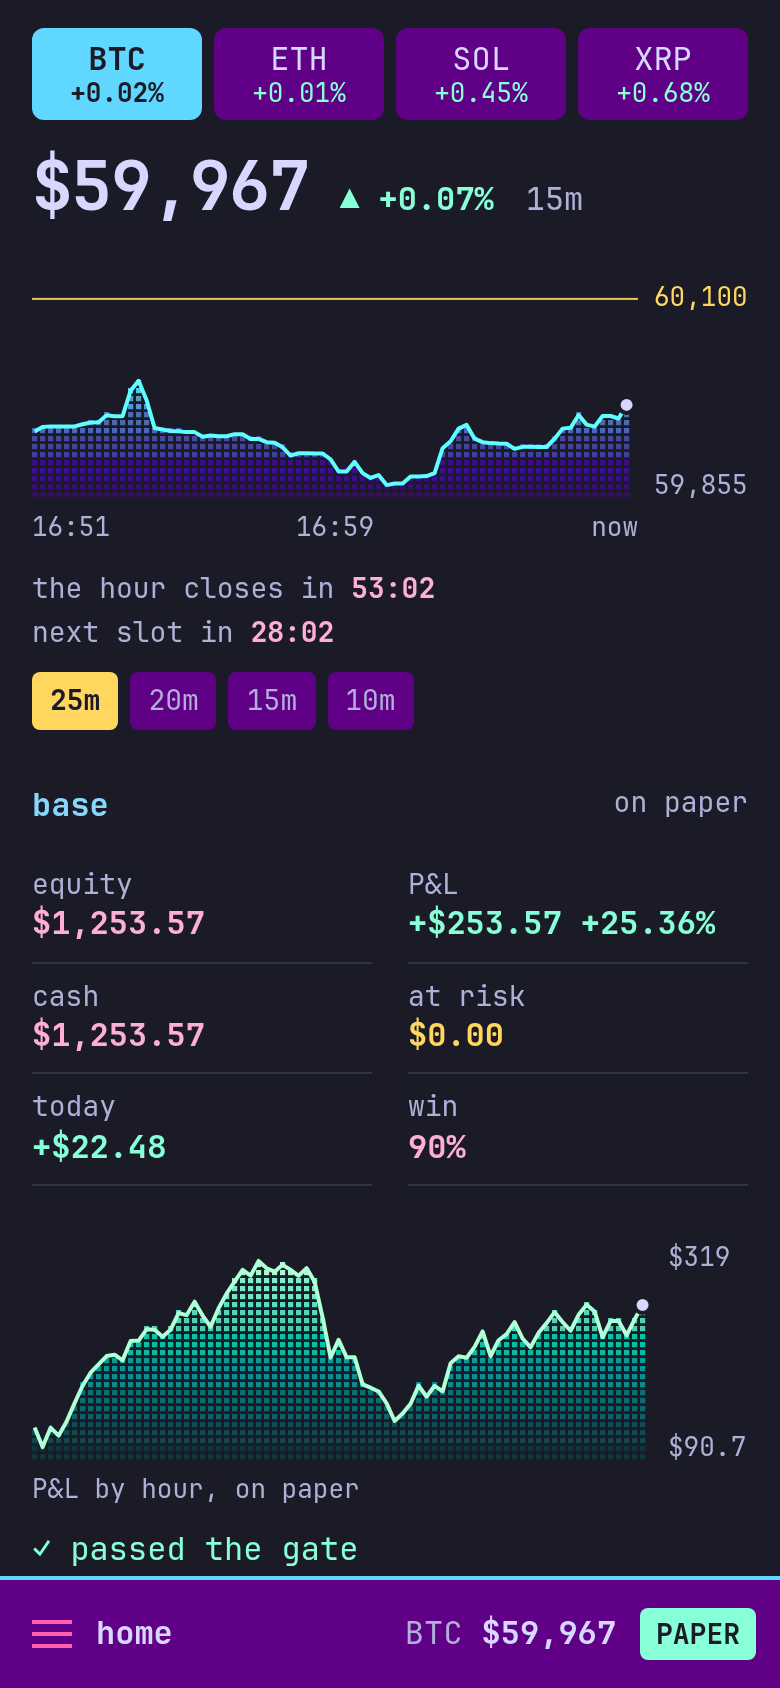
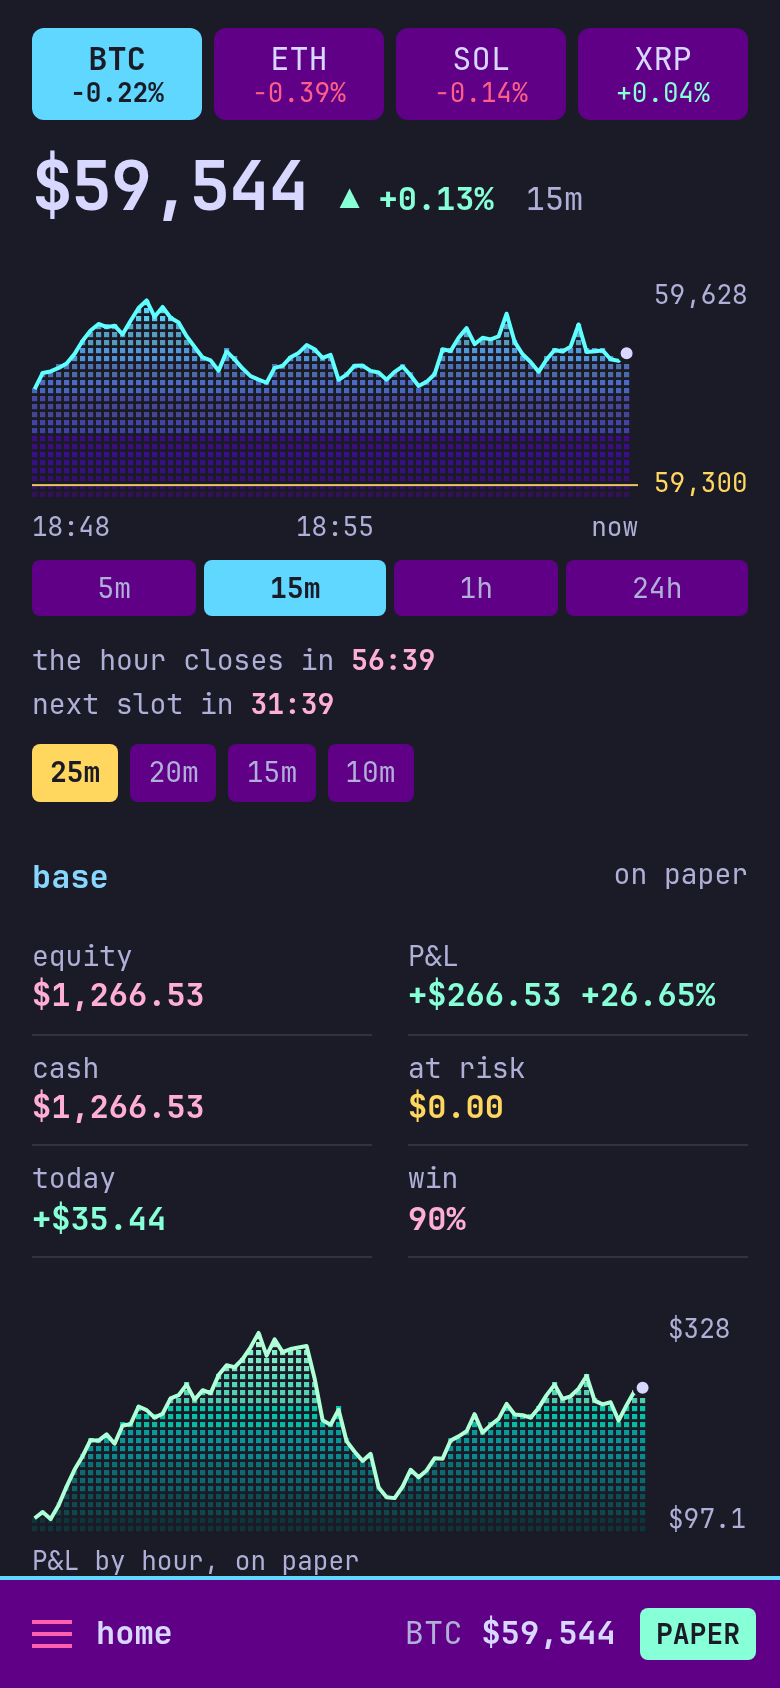
Phone pages: no spot page, its spans on home, and swipes go around

diff --git a/tern/phone.html b/tern/phone.html
@@ -44,6 +44,10 @@
   .pick button span { display: block; font-size: 13px; line-height: 1.1; }
   .pick.coins button { padding: 6px 12px; line-height: 1.25; }
   .pick button.on span { color: inherit; }
+  .pick.mini { gap: 4px; margin: 8px 0 0; overflow: visible; }
+  .pick.mini button { position: relative; min-height: 28px; padding: 0 8px; font-size: 14px; line-height: 1; border-radius: 4px; color: var(--grey); }
+  .pick.mini button.on { color: var(--bg); }
+  .pick.mini button::after { content: ""; position: absolute; inset: -8px -2px; }        /* small to see, not to hit */
 
   .price { font-size: 34px; line-height: 1.1; font-weight: 700; letter-spacing: -.02em; }
   .line { display: flex; flex-wrap: wrap; gap: 2px 16px; align-items: baseline; }
@@ -287,9 +291,9 @@
     return el("div", {}, el("div.line.small", { style: { "margin-top": "12px" } }, el("span.quiet", {}, "the hour closes in ", el("b.val", {}, h.left)), next && el("span.quiet", {}, "next slot in ", el("b.val", {}, next.in))),
       h.slots.length > 0 && el("div.slots", { "aria-label": "slots" }, h.slots.map(s => el("span", { cls: s.state }, (s.state === "done" ? "✓ " : "") + s.at))));
   }
-  function spotChart(d, c, size) {
+  function spotChart(d, c) {
     const v = c.vals, last = v[v.length - 1];
-    return chart("spot", size, { vals: v, t0: c.t0, t1: c.t1, grad: theme.grads.spot, fmt: price, none: "waiting for spot",
+    return chart("spot", "mid", { vals: v, t0: c.t0, t1: c.t1, grad: theme.grads.spot, fmt: price, none: "waiting for spot",
       marks: c.strike ? [{ v: c.strike, color: pal[theme.warn], fit: true }] : [] }, v.length ? `${d.coin} over ${d.chart}, now $${price(last)}` : "no prices yet");
   }
   function priceLine(d, c) {
@@ -311,16 +315,10 @@
   const PAGES = {
     home(d, x) {
       const v = x.variant;
-      return [coinPick(d), priceLine(d, x.chart), spotChart(d, x.chart, "mid"), hourLine(x.hour),
+      return [coinPick(d), priceLine(d, x.chart), spotChart(d, x.chart), pick("chart", d.charts.map(c => [c, c]), d.chart, "mini"), hourLine(x.hour),
         v && [el("h2", {}, v.title, el("span", {}, x.view === "live" ? "the live book" : "on paper")), stats([...x.money, ...(x.view === "live" ? [] : [["today", usd(v.today, true), role(v.today)], ["win", v.win, ""]])]),
           chart("pnl", "mid", plus(v.curve, "P&L by hour, on paper"), `P&L of ${v.title}: ${v.pnl}`), gateLines(v.gate, true)],
         el("h2", {}, "open", el("span", {}, x.open.length)), openRows(x.open)];
-    },
-    spot(d, x) {
-      const v = x.chart.vals, last = v[v.length - 1];
-      return [title("spot"), coinPick(d), priceLine(d, x.chart), spotChart(d, x.chart, "tall"), el("div", { style: { height: "12px" } }), pick("chart", d.charts.map(c => [c, c]), d.chart),
-        v.length > 0 && stats([["high", "$" + price(Math.max(...v)), "up"], ["low", "$" + price(Math.min(...v)), "dn"],
-          ...(x.chart.strike ? [["strike", "$" + price(x.chart.strike), "warn"], [last >= x.chart.strike ? "above it by" : "below it by", "$" + price(Math.abs(last - x.chart.strike)), role(last - x.chart.strike)]] : [])]), hourLine(x.hour)];
     },
     ladder(d, x) {
       if (!x.rows.length) return [title("ladder"), coinPick(d), none("Waiting for the hourly event.")];
@@ -416,13 +414,13 @@
   }
 
   // ------------------------------------------------------------ the menu and the status line
-  const NAMES = ["home", "spot", "ladder", "book", "variants", "log", "gate", "reports", "themes"];
+  const NAMES = ["home", "ladder", "book", "variants", "log", "gate", "reports", "themes"];
   const route = () => { const [p, ...a] = location.hash.replace(/^#\/?/, "").split("/"); let arg = a.join("/"); try { arg = decodeURIComponent(arg); } catch (e) {} return { page: PAGES[p] ? p : "home", arg: arg || null }; };
   const parent = p => ({ contract: "ladder", variant: "variants", report: "reports" })[p] || p;
   let open = false, last = null;
   function drawMenu() {
     const at = parent(route().page), m = (last || {}).menu || {}, coin = last && last.coins.find(c => c.series === last.series);
-    const facts = { ...m, spot: coin ? [`${coin.coin} $${coin.px}`, ""] : ["", ""], home: ["", ""] };
+    const facts = { ...m, home: coin ? [`${coin.coin} $${coin.px}`, ""] : ["", ""] };
     const list = el("div.list", {}, NAMES.map(n => el("a.row", { href: "#/" + n, cls: n === at ? "on" : "", "aria-current": n === at ? "page" : null, style: { "--c": pageColor(n) } }, el("span.grow.name", {}, n), facts[n] && el("span", { cls: facts[n][1] || "quiet" }, facts[n][0]))),
       el("a.row", { href: "/ui/full" }, el("span.grow.name", {}, "full screen"), el("span.quiet", {}, "the desk's layout")), look.login && el("a.row", { href: "/logout" }, el("span.grow.name", {}, "sign out")));
     if (menu.firstChild) morph(menu.firstChild, list); else menu.append(list);
@@ -530,16 +528,16 @@
   });
   window.addEventListener("resize", drawAll);
 
-  // ------------------------------------------------------------ swiping: the menu's pages in order, and a strike's, a variant's and a report's neighbors
+  // ------------------------------------------------------------ swiping: the menu's pages in order and around, so the variants and the reports; the strikes have ends
   const slide = $("slide"), beside = $("beside"), calm = window.matchMedia("(prefers-reduced-motion: reduce)");
   function next(step) {
     const { page, arg } = route(), i = NAMES.indexOf(page);
-    if (i >= 0) { const n = NAMES[i + step]; return n ? { to: "#/" + n, name: n, color: pageColor(n) } : null; }
+    if (i >= 0) { const n = NAMES[(i + step + NAMES.length) % NAMES.length]; return { to: "#/" + n, name: n, color: pageColor(n) }; }
     if (!data || shown !== page + "/" + arg || data.none) return null;
     const color = pageColor(page), swap = true;
     if (page === "contract") { const t = step > 0 ? data.up : data.down; return t ? { to: "#/contract/" + t, name: step > 0 ? "higher strike" : "lower strike", color, swap } : null; }
     const all = new Map(data.all), at = page === "variant" ? data.name : data.id;
-    const ids = page === "variant" && order ? order().filter(n => all.has(n)) : [...all.keys()], k = ids.indexOf(at), id = k < 0 ? undefined : ids[k + step];
+    const ids = page === "variant" && order ? order().filter(n => all.has(n)) : [...all.keys()], k = ids.indexOf(at), id = k < 0 || ids.length < 2 ? undefined : ids[(k + step + ids.length) % ids.length];
     return id === undefined ? null : { to: `#/${page}/` + encodeURIComponent(id), name: all.get(id), color, swap };
   }
   let leaving = null, away = 0, awayT = 0;                  // until the old page is off the screen; which way it went, until the new one is drawn

diff --git a/tern/phone.py b/tern/phone.py
@@ -19,7 +19,7 @@ from . import reports
 from .variants import describe
 
 PAGE = os.path.join(os.path.dirname(os.path.abspath(__file__)), "phone.html")
-PAGES = ("home", "spot", "ladder", "contract", "book", "variants", "variant", "log", "gate", "reports", "report", "themes")
+PAGES = ("home", "ladder", "contract", "book", "variants", "variant", "log", "gate", "reports", "report", "themes")
 UI_COOKIE = "tern_ui"                            # "full" or "phone": what the viewer chose over what was detected
 UI = ("phone", "full")
 PHONE = re.compile(r"iPhone|iPod|Android.*\bMobile\b|Windows Phone|Opera Mini")
@@ -185,10 +185,6 @@ def home(scr, arg) -> dict:
             "money": [[l, t, ROLE.get(c, "")] for l, t, c in scr.book_money(b)[:4]] if b else [],
             "variant": {**variant(scr, v), "gate": gate_of(v), "curve": thin(v.get("curve") or [], 80)} if v else None,
             "open": positions(scr, b)}
-
-
-def spot(scr, arg) -> dict:
-    return {"chart": spot_chart(scr), "hour": hour(scr)}
 
 
 def ladder(scr, arg) -> dict:
@@ -361,7 +357,7 @@ def theme_list(scr, arg) -> dict:
     return {"rows": out}
 
 
-MAKE = {"home": home, "spot": spot, "ladder": ladder, "contract": contract, "book": book, "variants": variants, "variant": one_variant,
+MAKE = {"home": home, "ladder": ladder, "contract": contract, "book": book, "variants": variants, "variant": one_variant,
         "log": log, "gate": gate, "reports": report_list, "report": one_report, "themes": theme_list}
 
 

diff --git a/README.md b/README.md
@@ -379,15 +379,14 @@ the desk is on paper or live; the menu lists the pages, with how things stand be
 <img width="200" alt="A strike" src="docs/screenshots/21-phone-contract.png" />
 <img width="200" alt="The variants" src="docs/screenshots/22-phone-variants.png" />
 <img width="200" alt="One variant" src="docs/screenshots/23-phone-variant.png" />
-<img width="200" alt="The spot chart" src="docs/screenshots/24-phone-spot.png" />
 <img width="200" alt="The themes" src="docs/screenshots/25-phone-themes.png" />
 </p>
 
-- **Pages:** home, spot, ladder, book, variants, log, gate, reports and themes. Tap a strike for its price this hour, a variant
+- **Pages:** home, ladder, book, variants, log, gate, reports and themes. Tap a strike for its price this hour, a variant
   for its record, a slot in the log for who bought. Hold a chart and slide to read it. The phone's back button goes back, and closes the menu.
-- **Swiping:** left for the next page in the menu's order, right for the one before. On a strike it goes to the next strike,
-  on a variant to the next variant as they were last listed, and on a report to the next report. A quick swipe works over a chart
-  too. A row that slides by itself, such as a wide table, keeps its own.
+- **Swiping:** left for the next page in the menu's order, right for the one before, around from the last to the first. On a
+  strike it goes to the next strike, on a variant to the next variant as they were last listed, and on a report to the next report.
+  A quick swipe works over a chart too. A row that slides by itself, such as a wide table, keeps its own.
 - **Which browsers:** the server picks by the browser's headers (`Sec-CH-UA-Mobile`, else the user agent). Tablets and
   computers get the screen. `full screen` in the menu, and `phone pages` on the screen there, switch; a cookie remembers it
   (`/ui/full`, `/ui/phone`).
@@ -443,7 +442,7 @@ The major ones, newest first.
 
 | Date | Change |
 |---|---|
-| 2026-11-24 | **Swiping on the phone pages:** left and right go to the next page and the one before. |
+| 2026-11-24 | **Swiping on the phone pages:** left and right go to the next page and the one before, and around. The spot page is gone: home has its chart and spans. |
 | 2026-11-24 | **Phone pages:** the web screen gives phones a layout of their own, one page at a time with a menu button. View only. |
 | 2026-11-24 | **Mouse:** the terminal screen takes clicks: tabs, the keys on the borders, rows, settings, themes. Turning a variant on or off and starting the engine ask `y`, and so do clicks that turn live off, change a setting, discard an edit or close the screen. A click no longer holds the screen still until the next key. The web page takes them in the settings and themes boxes too, view only as before. |
 | 2026-11-24 | **Limits are part of a variant:** most at risk, largest order and daily loss limit, on paper and live. Live buys the variant's own contracts a strike (it had a size of its own). The settings box and the editor explain each setting. BNB and HYPE are not traded any more. |
